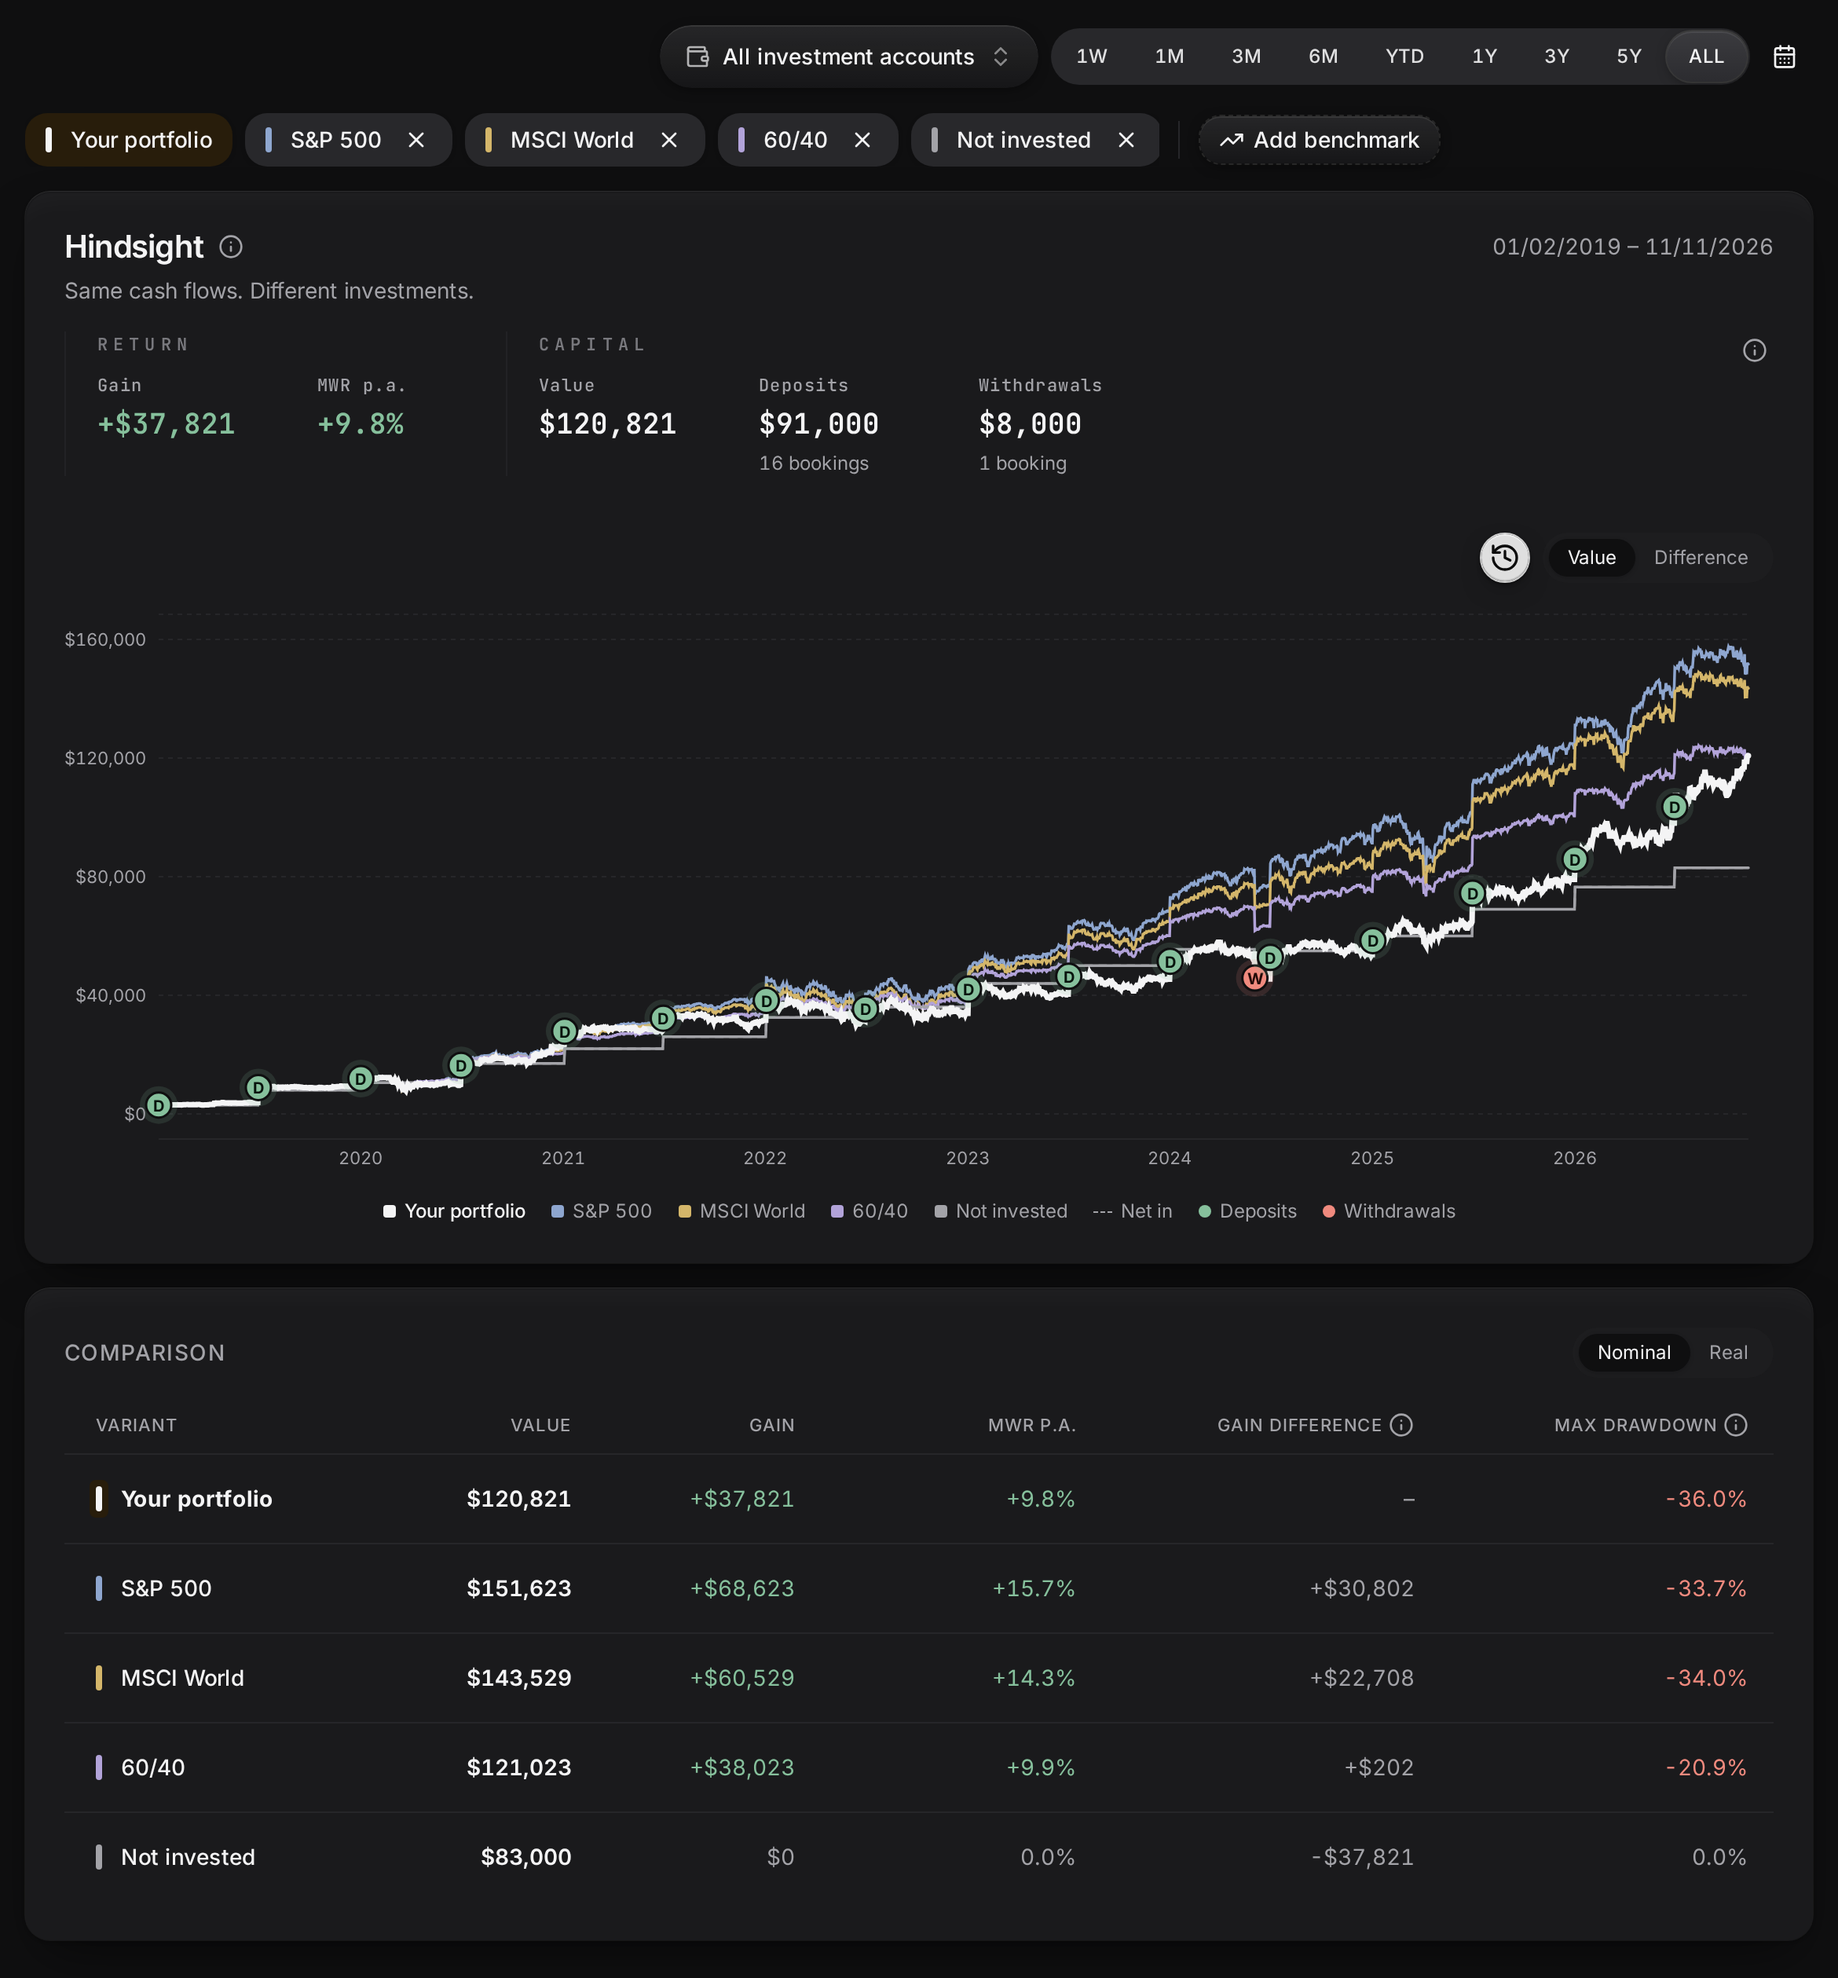
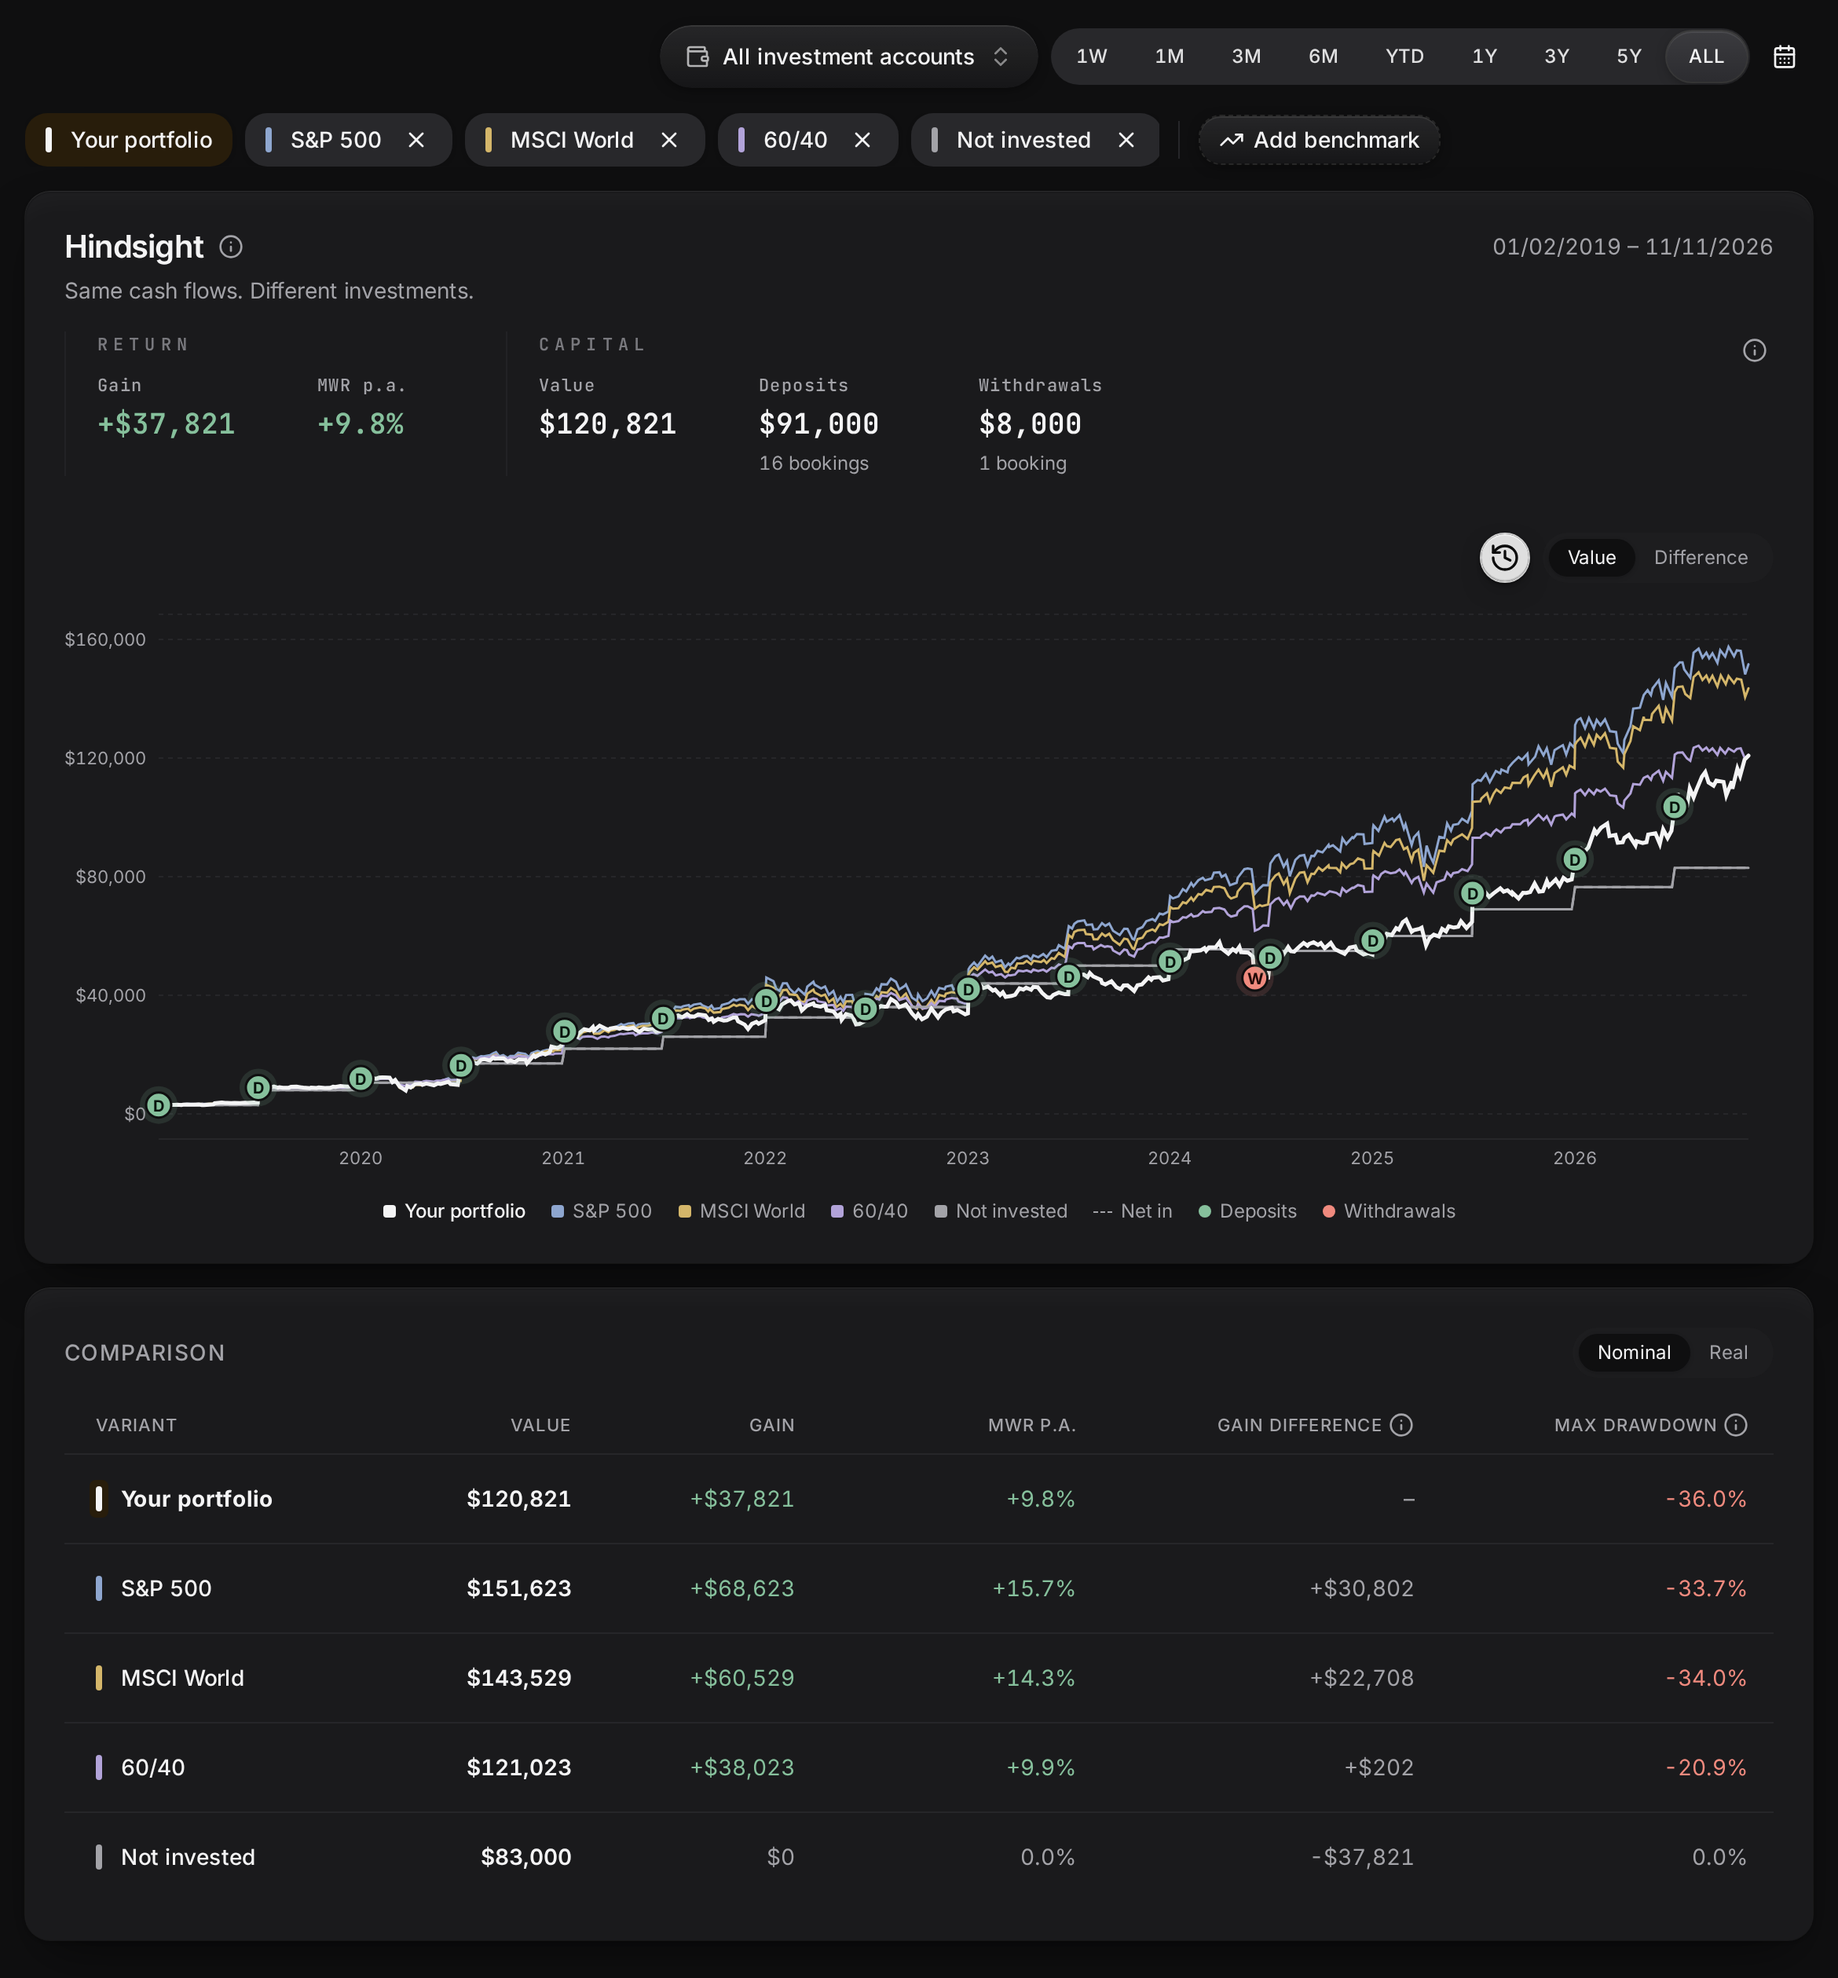
Thin chart lines with LTTB and draw them like the host
Years of daily points blurred into a thick band. Each line now keeps about
400 points (150 on phones) chosen by Largest-Triangle-Three-Buckets, the
decimation ECharts and Chart.js use, so peaks and troughs stay; booking days
stay on every line for the markers, and the tooltip still shows the exact
day. Line widths follow the Performance page (2 px, benchmarks 1.5 px).

diff --git a/src/ui/ComparisonChart.tsx b/src/ui/ComparisonChart.tsx
@@ -8,6 +8,7 @@ import { axisTicks } from './axis';
 import { rowName, useTexts } from './i18n';
 import { HistoryChartMarkerShape } from '../vendor/wealthfolio/history-chart-marker';
 import { bookingMarkers, dayFromTime, timeOfDay } from './markers';
+import { thinRows, type ChartRow } from './thin';
 
 interface Series {
   key: string;
@@ -21,6 +22,8 @@ export const NET_KEY = 'net';
 export type ChartMode = 'value' | 'difference';
 const DEPOSIT_COLOR = 'var(--success)';
 const WITHDRAWAL_COLOR = 'var(--destructive)';
+/** Points per line: about two pixels each, so years of daily values do not blur into a thick band. */
+const LINE_POINTS = { desktop: 400, mobile: 150 };
 
 /** Every computable row as a line in its badge colour (the host plots every added item); the selected line is
  * drawn last and thicker. Value mode plots the value with the dashed "Net in" reference; difference mode each gain
@@ -50,19 +53,27 @@ export function ComparisonChart({
     for (const r of a.rows) {
       const color = colors.get(r.key);
       if (isError(r.result) || !color) continue;
-      out.push({ key: r.key, name: rowName(t, r), color, width: r.kind === 'actual' ? 2.5 : 1.75 });
+      out.push({ key: r.key, name: rowName(t, r), color, width: r.kind === 'actual' ? 2 : 1.5 });
     }
     const sel = out.findIndex((s) => s.key === selected);
     // >= 0: in Difference mode there is no net-in series, so the real portfolio is at index 0.
     if (sel >= 0) {
       const [s] = out.splice(sel, 1);
-      out.push({ ...s, width: s.width + 1 });
+      out.push({ ...s, width: s.width + 0.5 });
     }
     return out;
   }, [a.rows, colors, selected, mode, t]);
 
   const chart = mode === 'difference' ? a.diffChart : a.chart;
-  const data = useMemo(() => chart.map((p) => ({ ...p, time: timeOfDay(String(p.date)) })), [chart]);
+  const data = useMemo(
+    () => thinRows(
+      chart.map((p): ChartRow => ({ ...p, time: timeOfDay(String(p.date)) })),
+      series.map((s) => s.key),
+      isMobile ? LINE_POINTS.mobile : LINE_POINTS.desktop,
+      (row) => Number(row.depCount ?? 0) > 0 || Number(row.wdCount ?? 0) > 0,
+    ),
+    [chart, series, isMobile],
+  );
   const points = useMemo(() => markers ? bookingMarkers(chart, selected) : [], [chart, selected, markers]);
   const dates = useMemo(() => a.chart.map((p) => String(p.date)), [a.chart]);
   const { ticks, label } = useMemo(() => axisTicks(dates, language), [dates, language]);
@@ -107,8 +118,9 @@ export function ComparisonChart({
               cursor={{ stroke: 'var(--muted-foreground)', strokeWidth: 1 }}
               content={({ active, payload, label: day }) => {
                 if (!active || !payload?.length) return null;
-                const rows = [...payload].sort((x, y) => Number(y.value) - Number(x.value));
-                const pt = payload[0].payload as Record<string, number | undefined>;
+                // The exact day, not the thinned line: every series' value from the untouched row.
+                const pt = (payload[0].payload as { full: Record<string, number | undefined> }).full;
+                const rows = series.map((s) => ({ ...s, value: pt[s.key] })).sort((x, y) => Number(y.value ?? -Infinity) - Number(x.value ?? -Infinity));
                 return (
                   <div className="bg-popover text-popover-foreground rounded-md border px-3 py-2 text-xs shadow-md">
                     <div className="text-muted-foreground mb-1">{fmt.date(dayFromTime(Number(day)))}</div>
@@ -132,8 +144,8 @@ export function ComparisonChart({
                     )}
                     <div className="space-y-1">
                       {rows.map((p) => (
-                        <div key={String(p.dataKey)} className="flex items-center gap-2">
-                          <span className="inline-block h-0.5 w-3 shrink-0" style={{ background: String(p.color) }} />
+                        <div key={p.key} className="flex items-center gap-2">
+                          <span className="inline-block h-0.5 w-3 shrink-0" style={{ background: p.color }} />
                           <span className="font-medium tabular-nums">
                             {typeof p.value !== 'number' ? '–' : mode === 'difference' ? fmt.moneySigned(p.value) : fmt.money(p.value)}
                           </span>

diff --git a/src/ui/thin.ts b/src/ui/thin.ts
@@ -1,0 +1,57 @@
+/**
+ * Largest-Triangle-Three-Buckets (Steinarsson 2013), the downsampling behind ECharts' and Chart.js' line
+ * decimation: picks `threshold` of the given points so the drawn line keeps its peaks and troughs.
+ * Returns positions into `xs`/`ys`, ascending, first and last included.
+ */
+export function lttb(xs: number[], ys: number[], threshold: number): number[] {
+  const n = xs.length;
+  if (threshold >= n || threshold < 3) return xs.map((_, i) => i);
+  const out = [0];
+  const size = (n - 2) / (threshold - 2);
+  let a = 0;
+  for (let b = 0; b < threshold - 2; b++) {
+    // Average of the next bucket is the third corner of the triangle.
+    const nextStart = Math.floor((b + 1) * size) + 1;
+    const nextEnd = Math.min(Math.floor((b + 2) * size) + 1, n);
+    let avgX = 0;
+    let avgY = 0;
+    for (let i = nextStart; i < nextEnd; i++) { avgX += xs[i]; avgY += ys[i]; }
+    avgX /= nextEnd - nextStart;
+    avgY /= nextEnd - nextStart;
+    let best = -1;
+    let bestArea = -1;
+    for (let i = Math.floor(b * size) + 1; i < nextStart; i++) {
+      const area = Math.abs((xs[a] - avgX) * (ys[i] - ys[a]) - (xs[a] - xs[i]) * (avgY - ys[a]));
+      if (area > bestArea) { bestArea = area; best = i; }
+    }
+    out.push(best);
+    a = best;
+  }
+  out.push(n - 1);
+  return out;
+}
+
+export type ChartRow = Record<string, number | string | null | undefined> & { time: number };
+
+/**
+ * Chart rows with each line thinned to about `threshold` points by LTTB; `keep` rows stay on every line (marker
+ * days). A row keeps only the values of the lines that use it, the others are left out and bridged by
+ * `connectNulls`. `full` is the untouched row for the tooltip.
+ */
+export function thinRows<R extends ChartRow>(rows: R[], keys: string[], threshold: number, keep: (row: R) => boolean = () => false): (R & { full: R })[] {
+  if (rows.length <= threshold) return rows.map((row) => ({ ...row, full: row }));
+  const used = new Map<number, Set<string>>();
+  const mark = (i: number, key: string) => { if (!used.has(i)) used.set(i, new Set()); used.get(i)!.add(key); };
+  for (const key of keys) {
+    const at = rows.flatMap((row, i) => (typeof row[key] === 'number' ? [i] : []));
+    const picked = lttb(at.map((i) => rows[i].time), at.map((i) => rows[i][key] as number), threshold);
+    for (const p of picked) mark(at[p], key);
+    for (const i of at) if (keep(rows[i])) mark(i, key);
+  }
+  return [...used.keys()].sort((x, y) => x - y).map((i) => {
+    const row = rows[i];
+    const thinned: ChartRow = { ...row };
+    for (const key of keys) if (!used.get(i)!.has(key)) delete thinned[key];
+    return { ...(thinned as R), full: row };
+  });
+}

diff --git a/test/thin.test.ts b/test/thin.test.ts
@@ -1,0 +1,43 @@
+import { describe, expect, it } from 'vitest';
+import { lttb, thinRows } from '../src/ui/thin';
+
+const xs = Array.from({ length: 1000 }, (_, i) => i);
+
+describe('lttb', () => {
+  it('keeps short lines whole', () => {
+    expect(lttb([0, 1, 2], [1, 2, 3], 10)).toEqual([0, 1, 2]);
+  });
+
+  it('returns the threshold count with both ends, ascending', () => {
+    const picked = lttb(xs, xs.map((x) => Math.sin(x / 20)), 100);
+    expect(picked).toHaveLength(100);
+    expect(picked[0]).toBe(0);
+    expect(picked.at(-1)).toBe(999);
+    expect(picked.every((p, i) => i === 0 || p > picked[i - 1])).toBe(true);
+  });
+
+  it('keeps a one-day trough', () => {
+    const ys = xs.map((x) => (x === 517 ? -50 : x / 10));
+    expect(lttb(xs, ys, 50)).toContain(517);
+  });
+});
+
+describe('thinRows', () => {
+  const rows = xs.map((x) => ({ time: x, a: x, b: x % 7, depCount: x === 333 ? 1 : 0 }));
+
+  it('leaves rows untouched up to the threshold', () => {
+    expect(thinRows(rows.slice(0, 10), ['a', 'b'], 50).map((r) => r.full)).toEqual(rows.slice(0, 10));
+  });
+
+  it('thins each line, keeps marker days on every line and the full row for the tooltip', () => {
+    const out = thinRows(rows, ['a', 'b'], 50, (r) => r.depCount > 0);
+    expect(out.length).toBeLessThan(110);
+    // 50 picked, plus the marker day unless LTTB picked it too
+    expect(out.filter((r) => typeof r.a === 'number').length).toBeGreaterThanOrEqual(50);
+    expect(out.filter((r) => typeof r.a === 'number').length).toBeLessThanOrEqual(51);
+    const marker = out.find((r) => r.time === 333)!;
+    expect(marker.a).toBe(333);
+    expect(marker.b).toBe(333 % 7);
+    expect(out.every((r) => r.full === rows[r.time])).toBe(true);
+  });
+});
